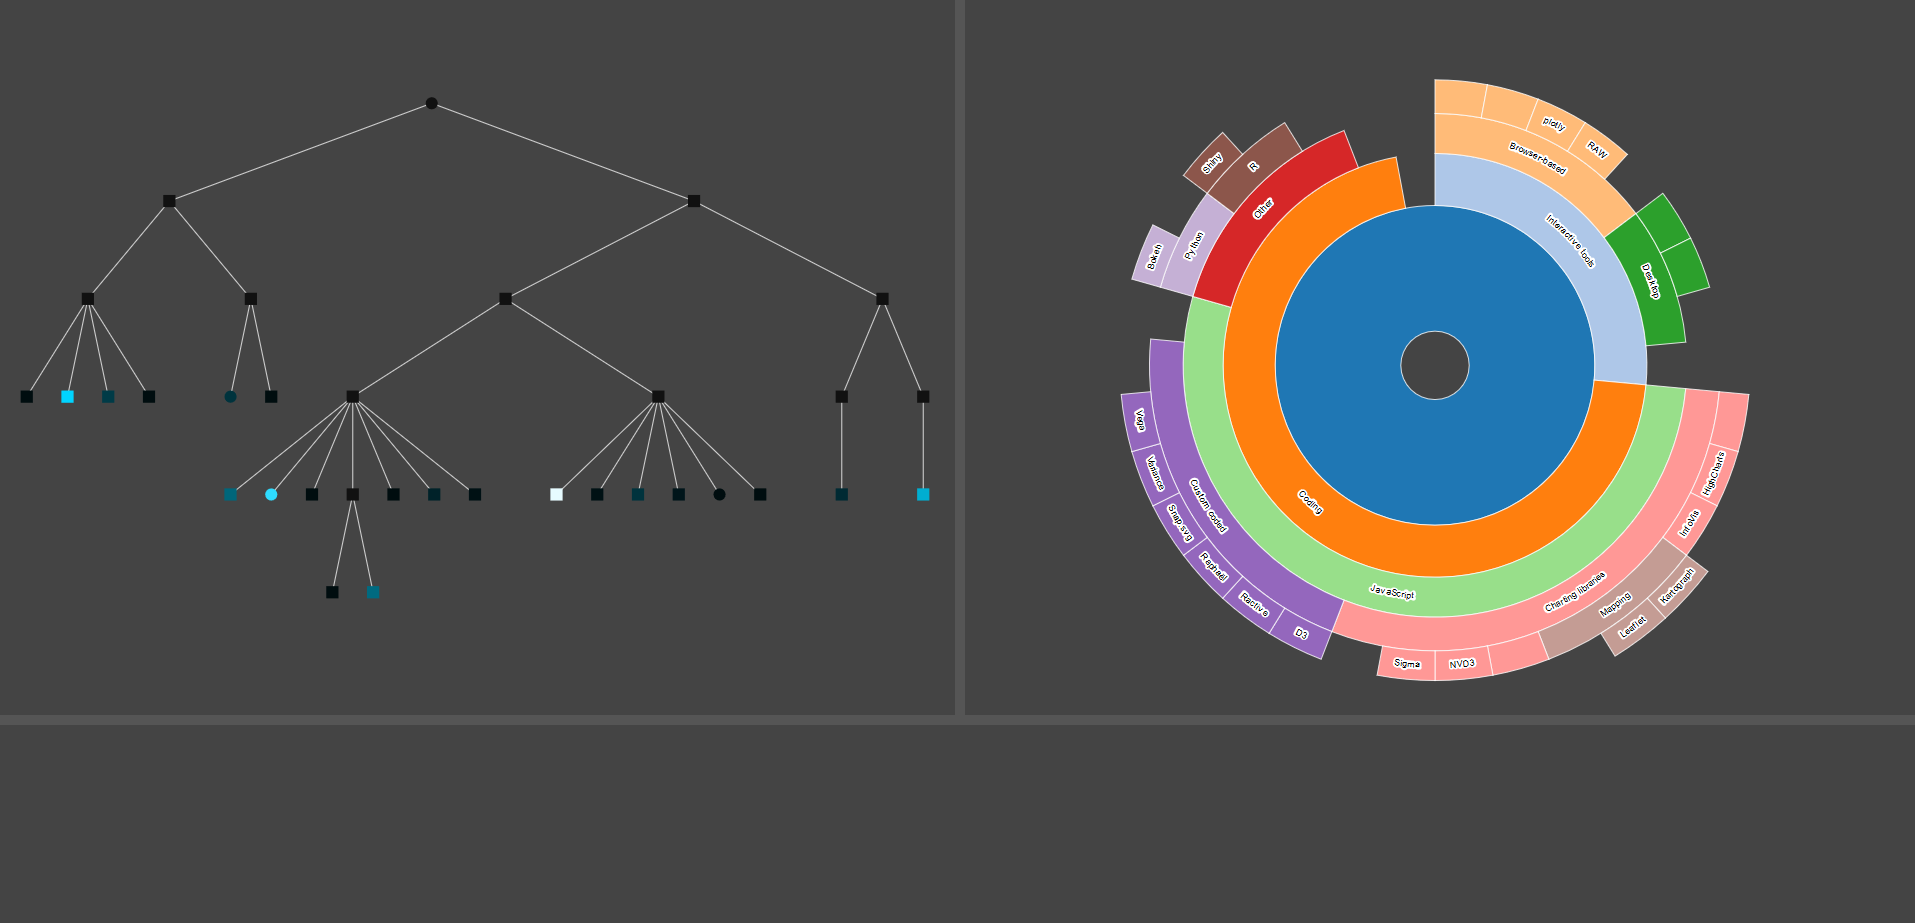
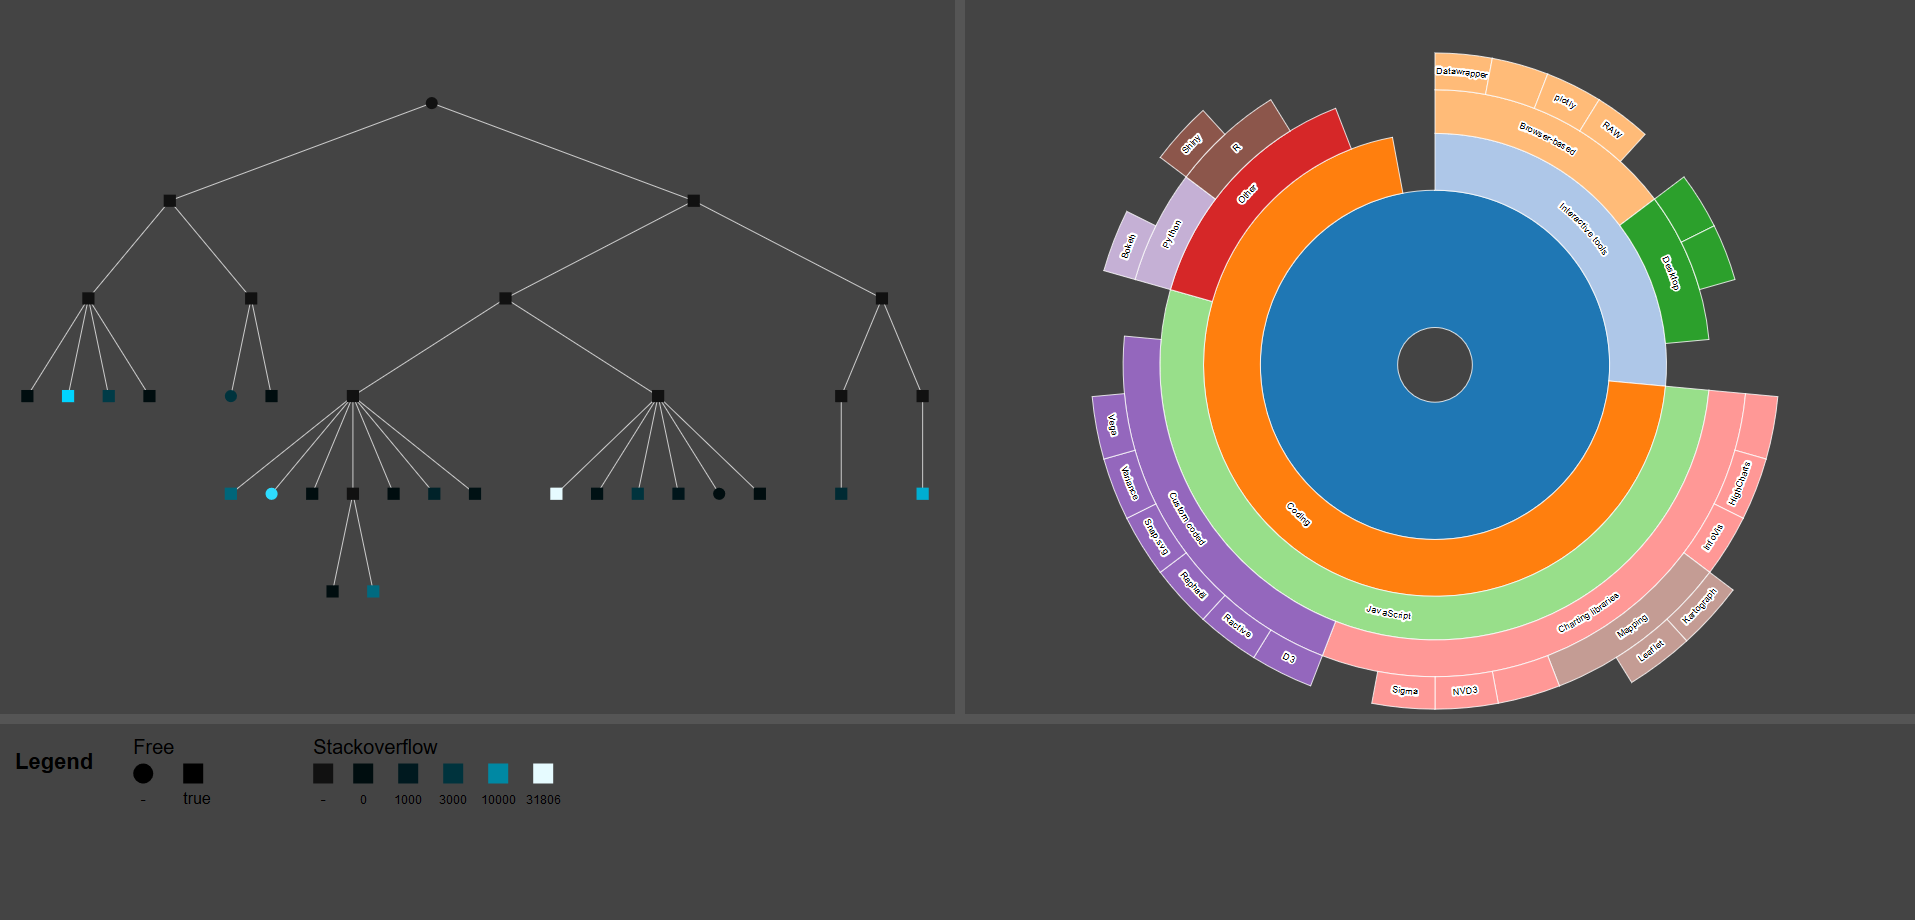
Abgabe Ver2 - Legende

diff --git a/A_3/Assignment3/Assignment3_Task1/vis.js b/A_3/Assignment3/Assignment3_Task1/vis.js
@@ -41,14 +41,13 @@ var hScale = d3.scaleLinear().range([250,350]);
 var sMap = function(d) { return sScale(sValue(d));};
 var hMap = function(d) { return hScale(sValue(d));};
 
+//domain color
+sScale.domain([0, 31806]);
+hScale.domain([0, 31806]);
 
 // retrieve Data
 d3.json("https://imld.de/docs/lehre/ws_18-19/data-vis/data/web-vis-tools.json", function(error, data) {
 
-
-//domain color
-sScale.domain([0, 31806]);
-hScale.domain([0, 31806]);
 
 //----------------------------------------------------- TREE -----------------------------------------------------//
 
@@ -255,8 +254,101 @@ function transform(t) {
 
 });
 
+//----------------------------------------------------- LEDGEND -----------------------------------------------------//
+
+var ledsvg = d3.select('#legendiv').append('svg')
+                .attr("width", "600px");
 
 
+ledsvg
+    .append('text')
+    .text('Free')
+    .attr("fill", "#000")
+    .style("font-size", "20px")
+    .attr("x", 40)
+    .attr("y", 20);
+
+
+ledsvg
+    .append('circle')
+    .attr('r',10)
+    .attr('cx',50)
+    .attr('cy',40);
+
+ledsvg
+    .append("rect")
+    .attr("width", 20)
+    .attr("height", 20)
+    .attr("x", 90)
+    .attr("y", 30);
+
+ledsvg
+    .append('text')
+    .text('-')
+    .attr("fill", "#000")
+    .style("font-size", "16px")
+    .attr("x", 50)
+    .attr("y", 70)
+    .attr("text-anchor", "middle");
+
+ledsvg
+    .append('text')
+    .text('true')
+    .attr("fill", "#000")
+    .style("font-size", "16px")
+    .attr("x",90)
+    .attr("y", 70)
+    .attr("text-anchor", "start");
+
+
+ledsvg
+    .append('text')
+    .text('Stackoverflow')
+    .attr("fill", "#000")
+    .style("font-size", "20px")
+    .attr("x", 220)
+    .attr("y", 20);
+
+ledsvg
+    .append("rect")
+    .attr("width", 20)
+    .attr("height", 20)
+    .attr("x", 220)
+    .attr("y", 30)
+    .attr("fill","#111");
+
+ ledsvg
+    .append('text')
+    .text('-')
+    .attr("fill", "#000")
+    .style("font-size", "16px")
+    .attr("x", 230)
+    .attr("y", 70)
+    .attr("text-anchor", "middle");
+
+var arrvalue = [0,1000,3000,10000,31806];
+var j;
+for (j = 0; j < 5; j++) {
+  ledsvg
+    .append("rect")
+    .attr("width", 20)
+    .attr("height", 20)
+    .attr("x", 260+45*j)
+    .attr("y", 30)
+    .attr("fill", function(d) {
+      return 'hsl(190, 100%, '+Math.round(sScale(arrvalue[j]))+'%)';
+    });
+
+  ledsvg
+    .append('text')
+    .text(arrvalue[j])
+    .attr("fill", "#000")
+    .style("font-size", "12px")
+    .attr("x", 270+45*j)
+    .attr("y", 70)
+    .attr("text-anchor", "middle");
+
+} 
 
 
 /* -------------------------------------------------------------

diff --git a/A_3/Assignment3/Assignment3_Task1/style.css b/A_3/Assignment3/Assignment3_Task1/style.css
@@ -14,7 +14,7 @@ body {
   border-right: 10px solid #555;
   }
 
-svg {
+.container svg {
   border-bottom: 10px solid #555;
 }
 
@@ -33,6 +33,11 @@ h3 {
 
 .container div{
   width: 50%
+}
+
+#legendiv {
+  padding: 20px;
+  display: flex;
 }
 
 

diff --git a/A_3/Assignment3/Assignment3_Task1/index.html b/A_3/Assignment3/Assignment3_Task1/index.html
@@ -25,6 +25,12 @@
  	</div>
 </div>
 
+<div id="legendiv">
+
+	<h1>Legend</h1>
+
+ </div>
+
 
 
 </body> 
